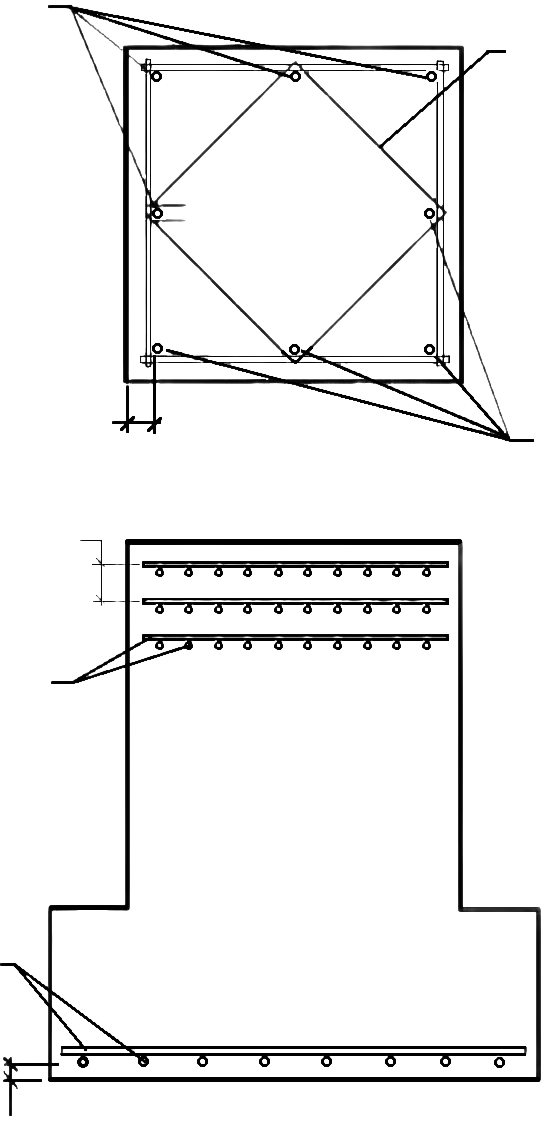
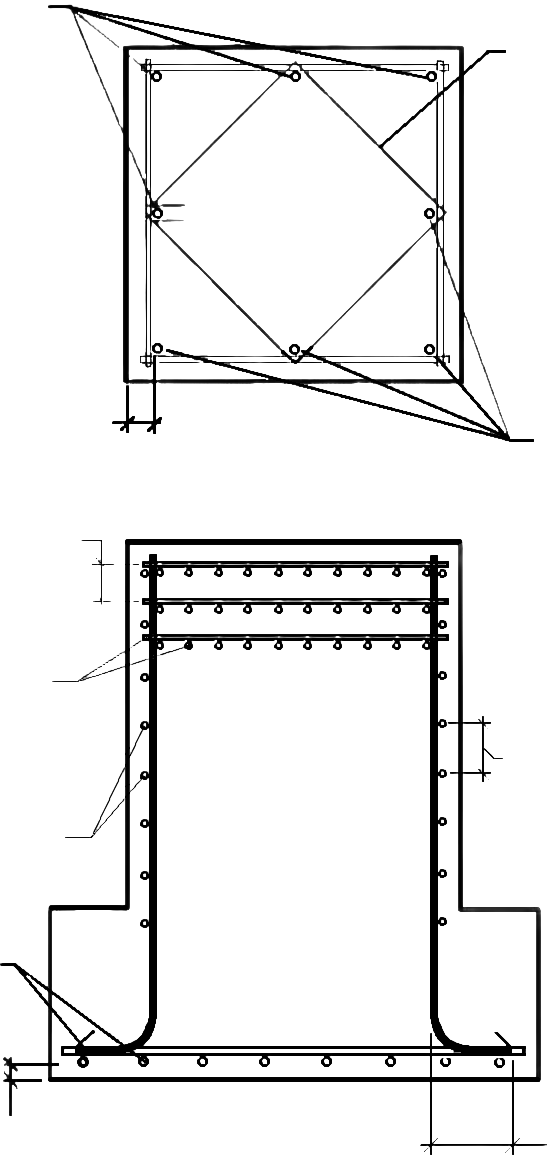
commit

diff --git a/ReinforcementColumnarFoundations/Views/Windows/ReinforcementColumnarFoundationsWPF.xaml b/ReinforcementColumnarFoundations/Views/Windows/ReinforcementColumnarFoundationsWPF.xaml
@@ -38,13 +38,15 @@
                         <ComboBox x:Name="comboBox_FirstBarTapes" HorizontalAlignment="Left"  Grid.Row="1" VerticalAlignment="Top" Width="100" Height="25" VerticalContentAlignment="Center" Margin="30,10,0,0"></ComboBox>
                         <ComboBox x:Name="comboBox_SecondBarTapes" HorizontalAlignment="Right" Grid.Row="1" VerticalAlignment="Top" Width="100" Height="25" VerticalContentAlignment="Center" Margin="0,170,10,0"></ComboBox>
                         <ComboBox x:Name="comboBox_BottomBarTapes" HorizontalAlignment="Left" VerticalAlignment="Bottom" Width="100" Height="25" Grid.Column="0" Grid.Row="1" Margin="10,0,0,130"></ComboBox>
-                        <ComboBox x:Name="comboBox_IndirectBarTapes" HorizontalAlignment="Left" VerticalAlignment="Top" Width="100" Height="25" Grid.Column="0" Grid.Row="1" Margin="30,262,0,0"></ComboBox>
+                        <ComboBox x:Name="comboBox_LateralBarTapes" HorizontalAlignment="Left" VerticalAlignment="Bottom" HorizontalContentAlignment="Left" Width="110" Height="25" Grid.Column="0" Grid.Row="1" Margin="20,0,0,179"></ComboBox>
+                        <ComboBox x:Name="comboBox_IndirectBarTapes" HorizontalAlignment="Left" VerticalAlignment="Top" HorizontalContentAlignment="Left" Width="110" Height="25" Grid.Column="0" Grid.Row="1" Margin="20,261,0,0"></ComboBox>
                         <ComboBox x:Name="comboBox_FirstStirrupBarTapes" Width="100" Height="25" Grid.Column="0" Grid.Row="1" HorizontalAlignment="Right" VerticalAlignment="Top" Margin="0,25,10,0"></ComboBox>
 
                         <ComboBox x:Name="comboBox_RebarCoverTypes" HorizontalAlignment="Left" VerticalAlignment="Bottom" Width="60" Height="25" Grid.Column="0" Grid.Row="1" Margin="90,0,0,335"></ComboBox>
                         <ComboBox x:Name="comboBox_RebarCoverBottom" HorizontalAlignment="Left" VerticalAlignment="Bottom" Width="60" Height="25" Grid.Column="0" Grid.Row="1" Margin="55,0,0,58"></ComboBox>
 
                         <TextBox x:Name="textBox_StepIndirectRebar" HorizontalAlignment="Left" VerticalAlignment="Top" Grid.Column="0" Grid.Row="1" Width="40" Height="25" Margin="100,205,0,0" TextWrapping="Wrap" VerticalContentAlignment="Center" HorizontalContentAlignment="Center"></TextBox>
+                        <TextBox  x:Name="textBox_StepLateralRebar" HorizontalAlignment="Right" VerticalAlignment="Top"  Grid.Column="0" Grid.Row="1" Width="40" Height="25" Margin="0,290,80,0" TextWrapping="Wrap" HorizontalContentAlignment="Stretch" VerticalContentAlignment="Center"></TextBox>
 
                         <Image x:Name="image_Sections" VerticalAlignment="Top" HorizontalAlignment="Center" RenderOptions.BitmapScalingMode="Fant" Grid.Row="1" Source="/ReinforcementColumnarFoundations;component/Resources/Надколонник_Армирование.png" Margin="110,10,105,0"/>
                     </Grid>

diff --git a/ReinforcementColumnarFoundations/Views/Windows/ReinforcementColumnarFoundationsWPF.xaml.cs b/ReinforcementColumnarFoundations/Views/Windows/ReinforcementColumnarFoundationsWPF.xaml.cs
@@ -20,11 +20,14 @@ namespace ReinforcementColumnarFoundations.Views.Windows
         List<RebarHookType> RebarHookTypeList;
 
         public string SelectedReinforcementTypeButtonName;
+
         public double StepIndirectRebar;
+        public double StepLateralRebar;
 
         public RebarBarType IndirectBarTapes;
         public RebarBarType FirstMainBarTape;
         public RebarBarType SecondMainBarTape;
+        public RebarBarType LateralBarTapes;
         public RebarBarType BottomMainBarTape;
         public RebarBarType FirstStirrupBarTape;
         public RebarBarType SecondStirrupBarTape;
@@ -59,6 +62,9 @@ namespace ReinforcementColumnarFoundations.Views.Windows
 
             comboBox_FirstBarTapes.ItemsSource = RebarBarTypesList;
             comboBox_FirstBarTapes.DisplayMemberPath = "Name";
+
+            comboBox_LateralBarTapes.ItemsSource = RebarBarTypesList;
+            comboBox_LateralBarTapes.DisplayMemberPath = "Name";
 
             comboBox_SecondBarTapes.ItemsSource = RebarBarTypesList;
             comboBox_SecondBarTapes.DisplayMemberPath = "Name";
@@ -215,6 +221,19 @@ namespace ReinforcementColumnarFoundations.Views.Windows
                     }
                 }
 
+                if (RebarBarTypesList.FirstOrDefault(rbt => rbt.Name == ReinforcementColumnarFoundationsSettingsT1Item.LateralBarTapeName) != null)
+                {
+                    comboBox_LateralBarTapes.SelectedItem = RebarBarTypesList.FirstOrDefault(rbt => rbt.Name == ReinforcementColumnarFoundationsSettingsT1Item.LateralBarTapeName);
+                }
+                else
+                {
+                    if (comboBox_LateralBarTapes.Items.Count != 0)
+                    {
+                        comboBox_LateralBarTapes.SelectedItem = comboBox_LateralBarTapes.Items.GetItemAt(0);
+                    }
+                }
+
+
                 if (RebarBarTypesList.FirstOrDefault(rbt => rbt.Name == ReinforcementColumnarFoundationsSettingsT1Item.BottomMainBarTapeName) != null)
                 {
                     comboBox_BottomBarTapes.SelectedItem = RebarBarTypesList.FirstOrDefault(rbt => rbt.Name == ReinforcementColumnarFoundationsSettingsT1Item.BottomMainBarTapeName);
@@ -262,6 +281,7 @@ namespace ReinforcementColumnarFoundations.Views.Windows
                         comboBox_RebarCoverBottom.SelectedItem = comboBox_RebarCoverBottom.Items.GetItemAt(0);
                     }
                 }
+                textBox_StepIndirectRebar.Text = ReinforcementColumnarFoundationsSettingsT1Item.StepIndirectRebar.ToString();
             }
         }
 
@@ -317,6 +337,14 @@ namespace ReinforcementColumnarFoundations.Views.Windows
                 TaskDialog.Show("Revit", "Выберите тип основных стержней подколонника!");
                 return;
             }
+
+            LateralBarTapes = comboBox_LateralBarTapes.SelectedItem as RebarBarType;
+            if (LateralBarTapes == null)
+            {
+                TaskDialog.Show("Revit", "Выберите тип боковых стержней подколонника!");
+                return;
+            }
+
             FirstStirrupBarTape = comboBox_FirstStirrupBarTapes.SelectedItem as RebarBarType;
             if (FirstStirrupBarTape == null)
             {
@@ -352,9 +380,11 @@ namespace ReinforcementColumnarFoundations.Views.Windows
                 ReinforcementColumnarFoundationsSettingsT1Item.Form26Name = Form26.Name;
                 ReinforcementColumnarFoundationsSettingsT1Item.Form11Name = Form11.Name;
                 ReinforcementColumnarFoundationsSettingsT1Item.Form51Name = Form51.Name;
+                ReinforcementColumnarFoundationsSettingsT1Item.RebarHookTypeForStirrupName = RebarHookTypeForStirrup.Name;
 
                 ReinforcementColumnarFoundationsSettingsT1Item.IndirectBarTapeName = IndirectBarTapes.Name;
                 ReinforcementColumnarFoundationsSettingsT1Item.FirstMainBarTapeName = FirstMainBarTape.Name;
+                ReinforcementColumnarFoundationsSettingsT1Item.LateralBarTapeName = LateralBarTapes.Name;
                 ReinforcementColumnarFoundationsSettingsT1Item.FirstStirrupBarTapeName = FirstStirrupBarTape.Name;
                 ReinforcementColumnarFoundationsSettingsT1Item.BottomMainBarTapeName = BottomMainBarTape.Name;
 
@@ -367,7 +397,16 @@ namespace ReinforcementColumnarFoundations.Views.Windows
                     TaskDialog.Show("Revit", "Укажите шаг раскладки рядов косвенного армирования!");
                     return;
                 }
+
+                double.TryParse(textBox_StepLateralRebar.Text, out StepLateralRebar);
+                if (string.IsNullOrEmpty(textBox_StepLateralRebar.Text))
+                {
+                    TaskDialog.Show("Revit", "Укажите шаг расскладки боковых стержней надколонника!");
+                    return;
+                }
+
                 ReinforcementColumnarFoundationsSettingsT1Item.StepIndirectRebar = StepIndirectRebar;
+                ReinforcementColumnarFoundationsSettingsT1Item.StepLateralRebar=StepLateralRebar;
 
                 ReinforcementColumnarFoundationsSettingsT1Item.SaveSettings();
             }

diff --git a/ReinforcementColumnarFoundations/ReinforcementColumnarFoundationsT1.cs b/ReinforcementColumnarFoundations/ReinforcementColumnarFoundationsT1.cs
@@ -148,6 +148,39 @@ namespace ReinforcementColumnarFoundations
                         return Result.Cancelled;
                     }
 
+                    //Боковое армирование подколонника
+                    try
+                    {
+                        //Точки для построения кривых стержня
+                        XYZ rebar_p1 = new XYZ(Math.Round(foundationProperty.FoundationBasePoint.X - foundationProperty.ColumnLength / 2, 6)
+                            , Math.Round(foundationProperty.FoundationBasePoint.Y - foundationProperty.ColumnWidth / 2 + firstMainBarDiam / 2 + coverDistance, 6)
+                            , Math.Round((foundationProperty.FoundationBasePoint.Z - foundationProperty.CoverTop) + foundationProperty.FoundationLength, 6));
+                        XYZ rebar_p2 = new XYZ(Math.Round(rebar_p1.X + 300 / 304.8, 6)
+                            , Math.Round(rebar_p1.Y, 6)
+                            , Math.Round(rebar_p1.Z, 6));
+
+                        //Кривые стержня
+                        List<Curve> mainRebarCurves = new List<Curve>();
+                        Curve line1 = Line.CreateBound(rebar_p1, rebar_p2) as Curve;
+                        mainRebarCurves.Add(line1);
+
+                        //Создание вертикального арматурного стержня
+                        MainRebar_1 = Rebar.CreateFromCurvesAndShape(doc
+                            , form01
+                            , firstMainBarType
+                            , null
+                            , null
+                            , foundation
+                            , XYZ.BasisY
+                            , mainRebarCurves
+                            , RebarHookOrientation.Right
+                            , RebarHookOrientation.Right);
+                    }
+                    catch
+                    {
+                        TaskDialog.Show("Revit", "Не удалось создать боковое армирование подколонника!");
+                    }
+
                     //Армирование подошвы
                     try
                     {
@@ -255,7 +288,7 @@ namespace ReinforcementColumnarFoundations
                         //Точки для построения кривых хомута
                         XYZ firstStirrup_p1 = new XYZ(Math.Round(foundationProperty.FoundationBasePoint.X - 200 / 304.8, 6)
                             , Math.Round(foundationProperty.FoundationBasePoint.Y - 200 / 304.8, 6)
-                            , Math.Round(foundationProperty.FoundationBasePoint.Z + foundationProperty.FoundationLength - 50 / 304.8, 6));
+                            , Math.Round(foundationProperty.FoundationBasePoint.Z + 150 / 304.8, 6));
 
                         XYZ firstStirrup_p2 = new XYZ(Math.Round(firstStirrup_p1.X + 400 / 304.8, 6)
                             , Math.Round(firstStirrup_p1.Y, 6)

diff --git a/ReinforcementColumnarFoundations/RainforcementColumnarFoundationsSettingsT1.cs b/ReinforcementColumnarFoundations/RainforcementColumnarFoundationsSettingsT1.cs
@@ -17,11 +17,13 @@ namespace ReinforcementColumnarFoundations
 
         public string IndirectBarTapeName { get; set; }
         public string FirstMainBarTapeName { get; set; }
+        public string LateralBarTapeName { get; set; }
         public string SecondBarTapesName { get; set; }
         public string BottomMainBarTapeName { get; set; }
         public string FirstStirrupBarTapeName { get; set; }
 
         public double StepIndirectRebar { get; set; }
+        public double StepLateralRebar { get; set; }
 
         public string SupracolumnRebarBarCoverTypeName { get; set; }
         public string BottomRebarCoverTypeName { get; set; }
